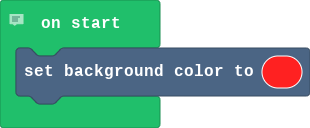
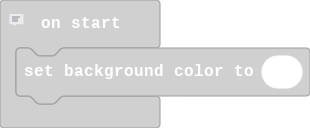
change background color to white

diff --git a/main.ts b/main.ts
@@ -1,2 +1,2 @@
 // Don't forget to comment your code as you work!
-scene.setBackgroundColor(2)
+scene.setBackgroundColor(1)
